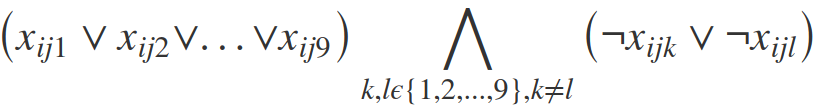
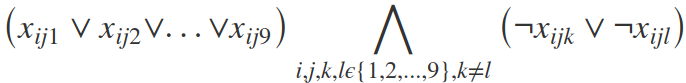
Added an image for the constraint ensuring that each digit appears once per row

diff --git a/README.md b/README.md
@@ -73,7 +73,12 @@ Boolean variables are labelled xijk, such that xijk is true if cell(i,j) contain
   Lik=(and(or(xi1k,xi2k,...xi9k),or( not(xijk),not(ilk) ) ) ) with i,j,k,l in {1,2,...,9} and j!=l
       - or(xi1k,xi2k,...xi9k): ensures that each digit {1,2,...9} appear in every row i.
       - or( not(xijk),not(ilk)): ensures that a digit appears only once.
-
+    
+      <figure>
+        <img src="appearOnce_perRow.png" height="100" width="450" align="center">
+        <figcaption>Fig3. Condition Ensuring that each digit 'k' appears exactly once per row</figcaption>
+     </figure> <br>
+  
 
   (4)- Each digit must appear exactly once in each column 
   Ljk=(and(or(x1jk,x2jk,...x9jk),or( not(xijk),not(ljk) ) ) ) with i,j,k,l in {1,2,...,9} and i!=l
